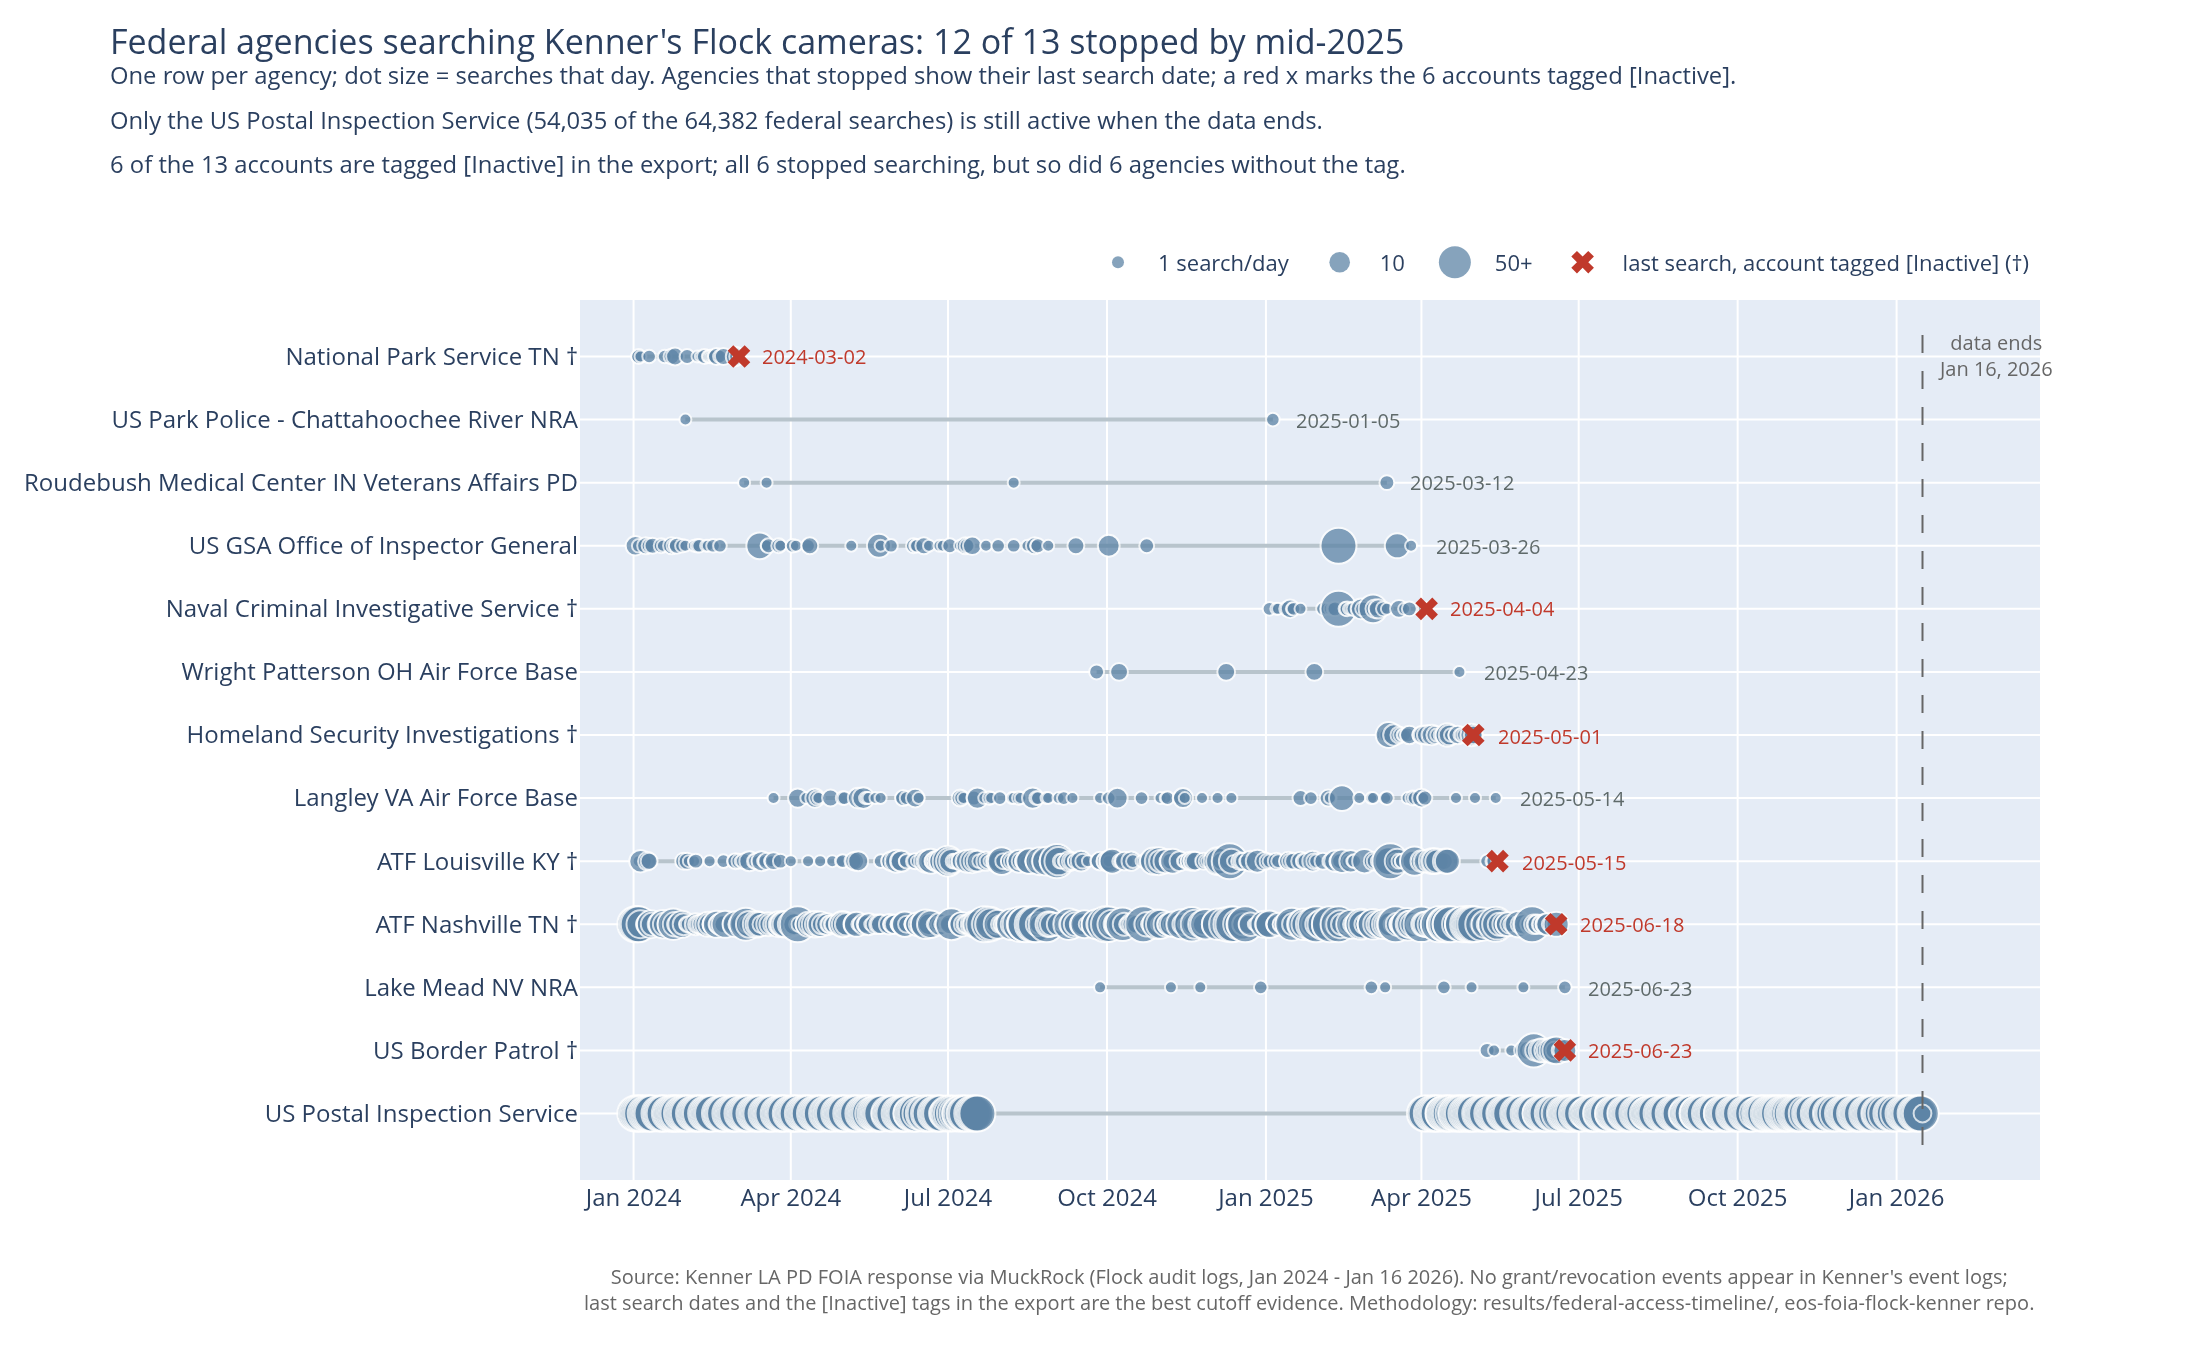
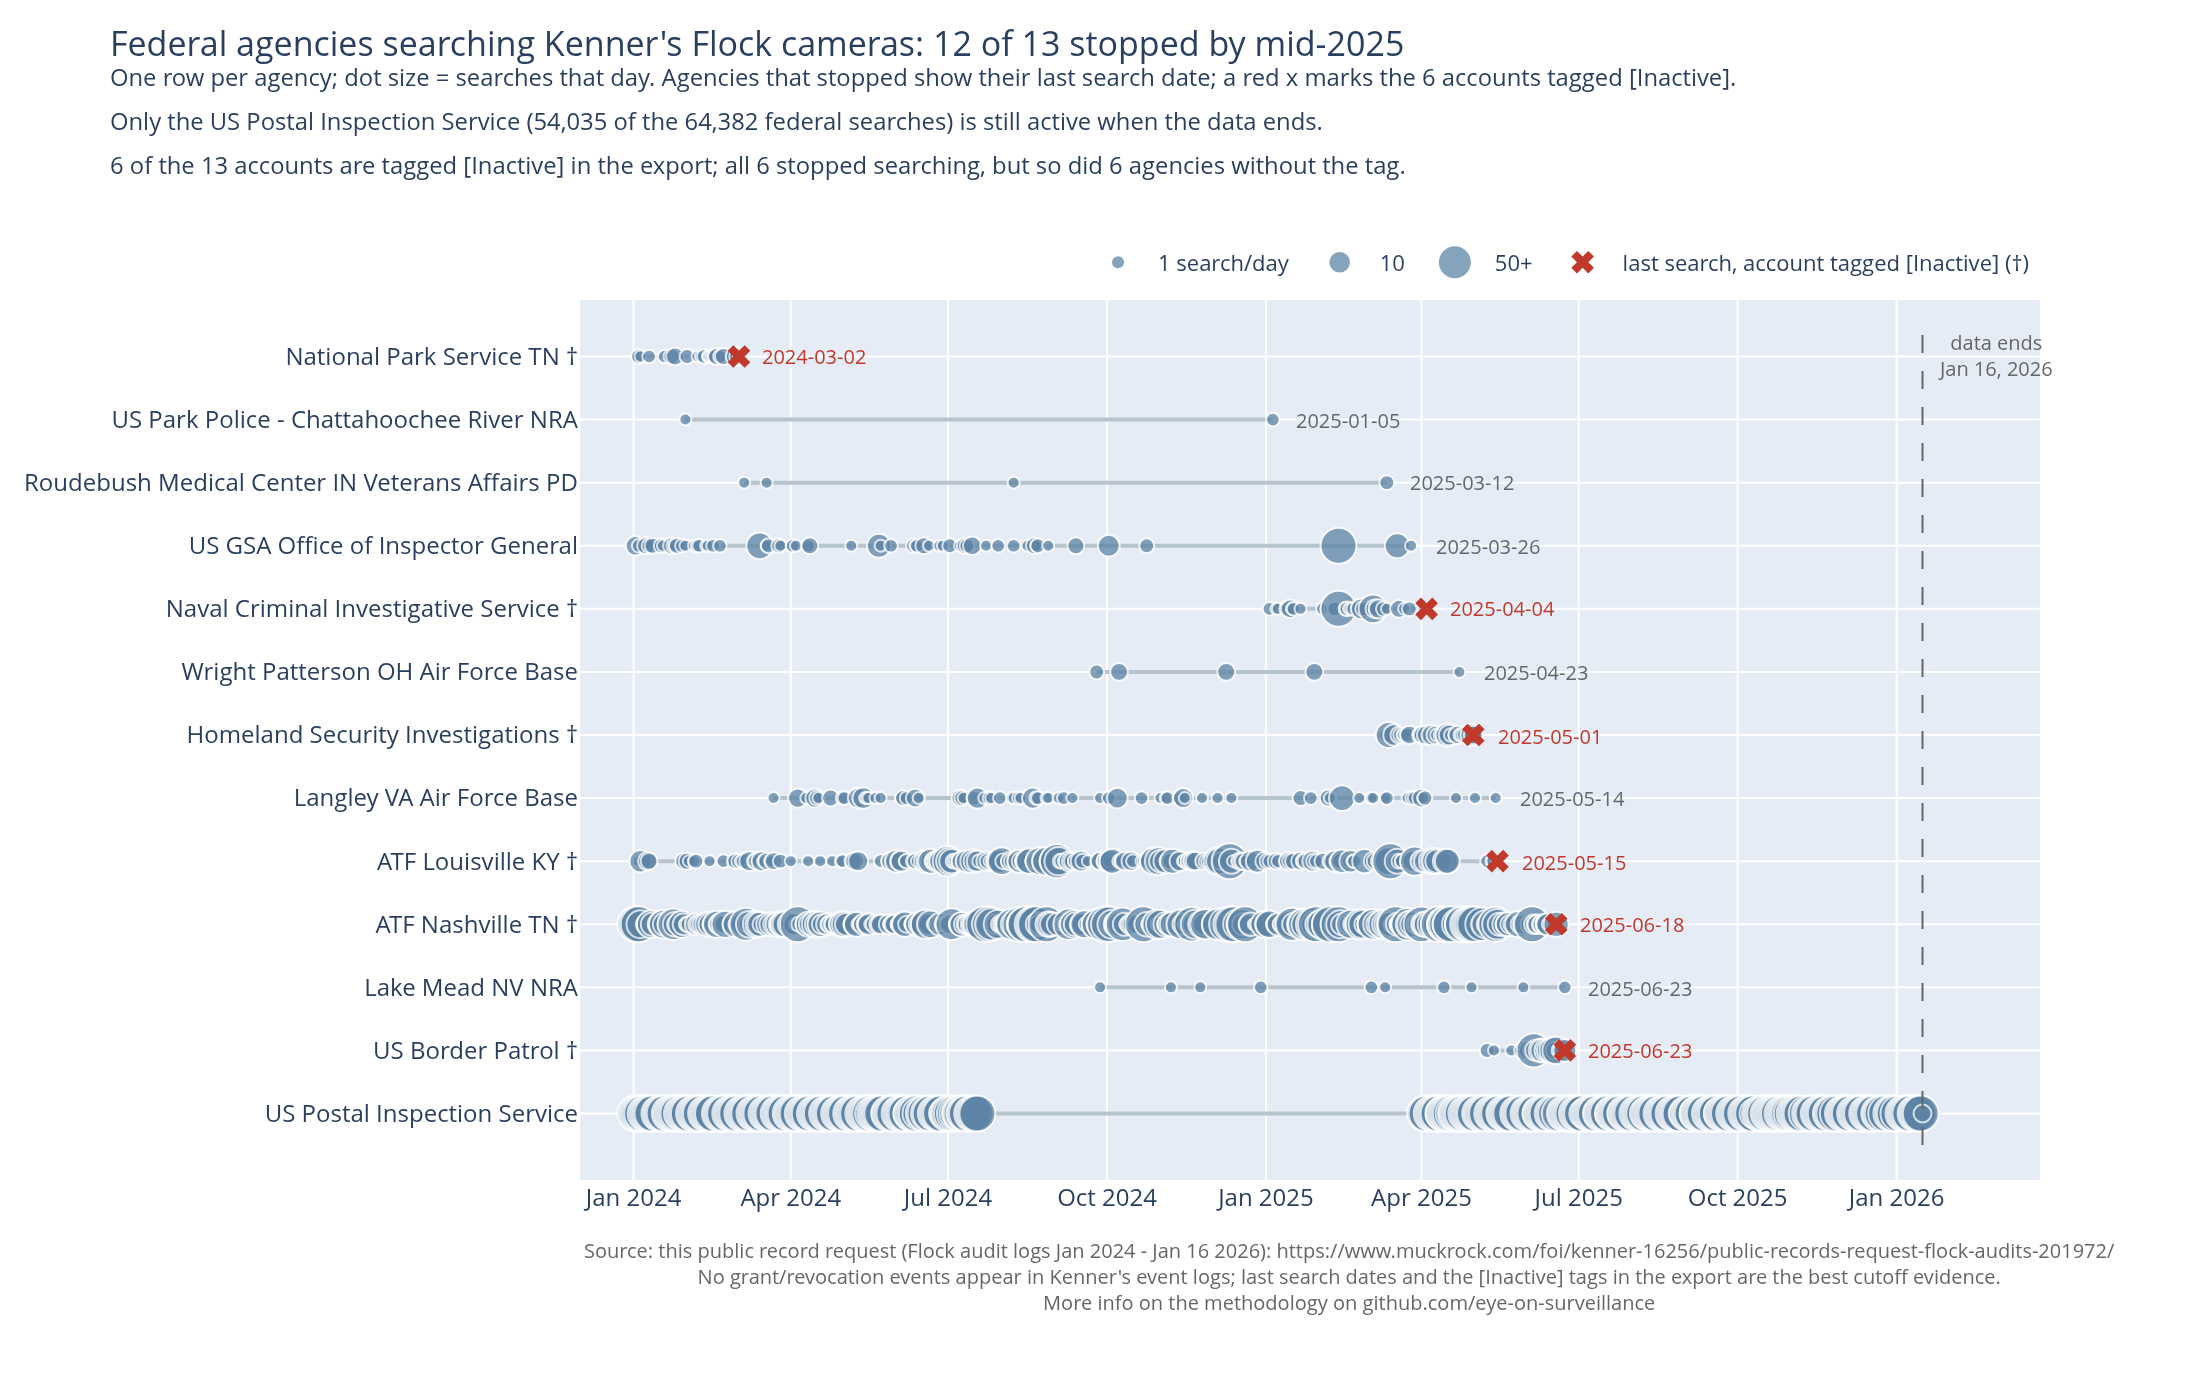
clean up readme, legend, source

diff --git a/results/agency-concentration/agency_concentration.py b/results/agency-concentration/agency_concentration.py
@@ -1,0 +1,211 @@
+# /// script
+# requires-python = ">=3.10"
+# dependencies = ["plotly", "kaleido"]
+# ///
+"""Graph: how concentrated are the outside searches of Kenner's cameras.
+
+Reads:  cache/flock.db  (build it with the setup-scripts/ pipeline first)
+Writes: next to this script, in results/agency-concentration/:
+        agency_concentration.html  (interactive, self-contained)
+        agency_concentration.svg
+        agency_concentration.png
+
+The database is the single source of data: the one SQL query below is
+the whole calculation, and the script prints the top-20 table and the
+band totals it draws, so the chart can be checked by re-running the
+query against cache/flock.db.
+
+Run from anywhere:  uv run results/agency-concentration/agency_concentration.py
+(uv installs plotly and kaleido from the header above; see README.)
+
+Definitions -- see DATA_DICTIONARY.md:
+- "Outside agencies" = network_audit rows where org_name is NOT
+  'Kenner LA PD' (same definition as results/internal-vs-network/).
+- Agencies are grouped by TRIM(org_name): a few names carry trailing
+  spaces in the export; trimming merges nothing (verified: no two
+  distinct names collide after TRIM), it only cleans the labels.
+- Treemap: rectangle area = share of all outside searches. Ranks 1-100
+  are drawn individually inside their band (top 10 / 11-50 / 51-100);
+  the 5,000+ agencies of the long tail are one aggregate block, because
+  thousands of unreadable slivers would only pretend to be detail.
+- This is a share-of-total chart, not a time series, so it uses the
+  full data range including the partial last month (Jan 1 2024 -
+  Jan 16 2026), stated in the subtitle.
+
+Idempotent: re-running overwrites the three output files.
+"""
+
+import sqlite3
+import sys
+from pathlib import Path
+
+import plotly.graph_objects as go
+
+OUTPUT_DIR = Path(__file__).resolve().parent      # results/agency-concentration
+PROJECT_ROOT = OUTPUT_DIR.parent.parent
+DB_FILE = PROJECT_ROOT / "cache" / "flock.db"
+OUTPUT_BASENAME = "agency_concentration"
+
+# Known figures the query result must reproduce exactly (verified when
+# this graph was built); any drift fails the run instead of drawing a
+# wrong chart.
+EXPECTED_TOTAL = 10_261_956
+EXPECTED_AGENCY_COUNT = 5_254
+EXPECTED_TOP = {
+    "Houston TX PD": 1_008_621,
+    "Dallas TX PD": 880_911,
+}
+
+# The three named bands; everything past rank 100 is the long tail.
+BANDS = ((1, 10, "Top 10 agencies"),
+         (11, 50, "Ranks 11-50"),
+         (51, 100, "Ranks 51-100"))
+BAND_COLORS = {"Top 10 agencies": "#2e5f8a",
+               "Ranks 11-50": "#4f7ca6",
+               "Ranks 51-100": "#7b9cba",
+               "long tail": "#adc2d4"}
+
+AGENCY_COUNTS = """
+SELECT TRIM(org_name) AS agency, COUNT(*) AS searches
+FROM network_audit
+WHERE org_name != 'Kenner LA PD'
+GROUP BY agency
+ORDER BY searches DESC
+"""
+
+
+def build_figure(ranked, total):
+    """Two-level treemap: band rectangles holding the named top-100
+    agencies, plus one aggregate block for the long tail."""
+    ids, labels, parents, values, colors = [], [], [], [], []
+
+    for lo, hi, band in BANDS:
+        band_rows = ranked[lo - 1:hi]
+        band_total = sum(c for _, c in band_rows)
+        ids.append(band)
+        # the band header renders on one line, so the share goes in the
+        # label itself (computed from the data, not hardcoded)
+        labels.append(f"{band} — {100 * band_total / total:.1f}%")
+        parents.append("")
+        values.append(band_total)
+        colors.append(BAND_COLORS[band])
+        for agency, count in band_rows:
+            ids.append(agency)
+            labels.append(agency)
+            parents.append(band)
+            values.append(count)
+            colors.append(BAND_COLORS[band])
+
+    tail = ranked[100:]
+    # a leaf node: the texttemplate below appends its share automatically
+    ids.append("long tail")
+    labels.append(f"{len(tail):,} other agencies (ranks 101+)")
+    parents.append("")
+    values.append(sum(c for _, c in tail))
+    colors.append(BAND_COLORS["long tail"])
+
+    fig = go.Figure(go.Treemap(
+        ids=ids, labels=labels, parents=parents, values=values,
+        branchvalues="total",
+        marker=dict(colors=colors, line=dict(width=1, color="white")),
+        texttemplate="%{label}<br>%{percentRoot:.1%}",
+        hovertemplate="%{label}<br>%{value:,} searches"
+                      " (%{percentRoot:.1%} of all outside searches)"
+                      "<extra></extra>",
+        pathbar=dict(visible=False),
+        tiling=dict(pad=2),
+    ))
+
+    fig.update_layout(
+        title=dict(
+            text="Searches of Kenner's Flock cameras: two Texas agencies"
+                 " vs. everyone else"
+                 "<br><sup>All 10,261,956 searches by 5,254 outside agencies"
+                 " that included Kenner's cameras, Jan 1 2024 - Jan 16 2026."
+                 " Rectangle area = share of searches.</sup>"
+                 "<br><sup>Ranks 1-100 are drawn individually (hover for"
+                 " exact numbers in the interactive version); the long tail"
+                 " is one block.</sup>",
+        ),
+        width=1100, height=700,
+        margin=dict(t=110, b=80),
+    )
+    fig.add_annotation(
+        text="Source: this public record request (Flock audit logs"
+             " Jan 2024 - Jan 16 2026, Kenner's own searches excluded):"
+             ' <a href="https://www.muckrock.com/foi/kenner-16256/'
+             'public-records-request-flock-audits-201972/">'
+             "https://www.muckrock.com/foi/kenner-16256/"
+             "public-records-request-flock-audits-201972/</a>"
+             "<br>More info on the methodology on"
+             ' <a href="https://github.com/eye-on-surveillance/'
+             'foia-flock-kenner">github.com/eye-on-surveillance</a>',
+        xref="paper", yref="paper", x=0, y=-0.06,
+        showarrow=False, font=dict(size=10, color="#666"),
+    )
+    return fig
+
+
+def main():
+    if not DB_FILE.exists():
+        print(f"ERROR: {DB_FILE} not found."
+              "\nRun the setup-scripts/ pipeline (00, 01_*, 02) first.",
+              file=sys.stderr)
+        sys.exit(1)
+
+    connection = sqlite3.connect(DB_FILE)
+    ranked = connection.execute(AGENCY_COUNTS).fetchall()
+    connection.close()
+
+    # Verification: the known grand total, agency count, and top-2 counts
+    # must match exactly -- otherwise the chart silently drifted from the
+    # database.
+    total = sum(c for _, c in ranked)
+    print("Verification: query result vs known figures")
+    checks = [
+        ("total searches", total, EXPECTED_TOTAL),
+        ("agencies", len(ranked), EXPECTED_AGENCY_COUNT),
+    ] + [(name, dict(ranked)[name], count)
+         for name, count in EXPECTED_TOP.items()]
+    all_ok = True
+    for label, got, expected in checks:
+        ok = got == expected
+        all_ok &= ok
+        print(f"  {label}: {got:,} expected {expected:,}"
+              f" {'OK' if ok else 'MISMATCH'}")
+    if not all_ok:
+        print("\nERROR: figures do not match; not writing outputs.",
+              file=sys.stderr)
+        sys.exit(1)
+
+    print("\nTop 20 agencies:")
+    cumulative = 0
+    for rank, (agency, count) in enumerate(ranked[:20], start=1):
+        cumulative += count
+        print(f"  {rank:>3} {count:>9,} {100 * count / total:5.2f}%"
+              f"  cum {100 * cumulative / total:5.2f}%  {agency}")
+
+    print("\nBands drawn in the treemap:")
+    for lo, hi, band in BANDS:
+        band_total = sum(c for _, c in ranked[lo - 1:hi])
+        print(f"  {band}: {band_total:,} searches"
+              f" ({100 * band_total / total:.1f}%)")
+    tail_total = sum(c for _, c in ranked[100:])
+    print(f"  {len(ranked) - 100:,} other agencies (ranks 101+):"
+          f" {tail_total:,} searches ({100 * tail_total / total:.1f}%)")
+
+    fig = build_figure(ranked, total)
+    html_path = OUTPUT_DIR / f"{OUTPUT_BASENAME}.html"
+    svg_path = OUTPUT_DIR / f"{OUTPUT_BASENAME}.svg"
+    png_path = OUTPUT_DIR / f"{OUTPUT_BASENAME}.png"
+    fig.write_html(html_path)                # self-contained interactive page
+    fig.write_image(svg_path)                # static, via kaleido
+    fig.write_image(png_path, scale=2)       # static, 2x resolution
+
+    print()
+    for path in (html_path, svg_path, png_path):
+        print(f"Wrote {path}")
+
+
+if __name__ == "__main__":
+    main()

diff --git a/results/federal-access-timeline/federal_access_timeline.py b/results/federal-access-timeline/federal_access_timeline.py
@@ -219,16 +219,22 @@ def build_figure(per_org):
         # bottom, first agency to stop at the top.
         yaxis=dict(categoryorder="array",
                    categoryarray=[labels[org] for org in reversed(order)]),
-        width=1100, height=680,
-        margin=dict(t=150, b=90),
+        width=1100, height=700,
+        margin=dict(t=150, b=110),
     )
     fig.add_annotation(
-        text="Source: Kenner LA PD FOIA response via MuckRock (Flock audit"
-             " logs, Jan 2024 - Jan 16 2026). No grant/revocation events"
-             " appear in Kenner's event logs;<br>last search dates and the"
-             " [Inactive] tags in the export are the best cutoff evidence."
-             " Methodology: results/federal-access-timeline/,"
-             " eos-foia-flock-kenner repo.",
+        text="Source: this public record request (Flock audit logs"
+             " Jan 2024 - Jan 16 2026):"
+             ' <a href="https://www.muckrock.com/foi/kenner-16256/'
+             'public-records-request-flock-audits-201972/">'
+             "https://www.muckrock.com/foi/kenner-16256/"
+             "public-records-request-flock-audits-201972/</a>"
+             "<br>No grant/revocation events appear in Kenner's event logs;"
+             " last search dates and the [Inactive] tags in the export are"
+             " the best cutoff evidence."
+             "<br>More info on the methodology on"
+             ' <a href="https://github.com/eye-on-surveillance/'
+             'foia-flock-kenner">github.com/eye-on-surveillance</a>',
         xref="paper", yref="paper", x=0, y=-0.16,
         showarrow=False, font=dict(size=10, color="#666"),
     )

diff --git a/results/internal-vs-network/internal_vs_network.py b/results/internal-vs-network/internal_vs_network.py
@@ -127,14 +127,19 @@ def build_figure(months, internal, external):
             rangemode="tozero", separatethousands=True,
         ),
         legend=dict(orientation="h", yanchor="bottom", y=1.0, x=0),
-        width=1000, height=600,
-        margin=dict(b=90),
+        width=1000, height=620,
+        margin=dict(b=130),
     )
     fig.add_annotation(
-        text="Source: Kenner LA PD FOIA response via MuckRock (Flock audit"
-             " logs). Full months only: Jan 2024 - Dec 2025."
-             " Methodology: results/internal-vs-network/ in the"
-             " eos-foia-flock-kenner repo.",
+        text="Source: this public record request (Flock audit logs, full"
+             " months only Jan 2024 - Dec 2025):"
+             '<br><a href="https://www.muckrock.com/foi/kenner-16256/'
+             'public-records-request-flock-audits-201972/">'
+             "https://www.muckrock.com/foi/kenner-16256/"
+             "public-records-request-flock-audits-201972/</a>"
+             "<br>More info on the methodology on"
+             ' <a href="https://github.com/eye-on-surveillance/'
+             'foia-flock-kenner">github.com/eye-on-surveillance</a>',
         xref="paper", yref="paper", x=0, y=-0.18,
         showarrow=False, font=dict(size=10, color="#666"),
     )

diff --git a/README.MD b/README.MD
@@ -13,13 +13,10 @@ You download the former and rebuild the latter.
 | `cache/` | generated artifacts: aggregated CSVs + `flock.db` (rebuilt, not in git) |
 | `results/` | human-friendly outputs (graphs, tables) |
 
-Requirements: Python 3.8+ with SQLite 3.37+ (`python3 -c "import sqlite3; print(sqlite3.sqlite_version)"`).
-No external libraries for the data pipeline (`setup-scripts/`). The graph
-scripts (in `results/`, one folder per graph) use plotly and run via
-[uv](https://docs.astral.sh/uv/), which handles their dependencies
-automatically.
+Requirements: Python 3.8+ with SQLite 3.37+ 
+ The graph scripts use plotly and run via [uv](https://docs.astral.sh/uv/), which handles their dependencies.
 
-## Obtain the FOIA results
+## Obtain the public records request results
 
 Download the zip and verify it:
 
@@ -99,7 +96,7 @@ see `DATA_DICTIONARY.md` for detail.
 
 ## Aggregate the results to work with them
 
-One CSV per month is not practical, and a small DB is handy. Step 01
+One CSV per month is not practical. Step 01
 aggregates each source into a single clean CSV in `cache/`, one line per
 record. Each script prints its own audit trail and exits with an error if
 any count is off; compare yours against the expected outputs below.

diff --git a/results/README.md b/results/README.md
@@ -23,3 +23,13 @@ Numbers, interactive version, and methodology: [`federal-access-timeline/`](fede
 12 of the 13 had stopped by mid-2025, most in a wave between March and June 2025. 6 of the 13 accounts are tagged `[Inactive]` in Flock's own export; all 6 stopped searching, but so did 6 agencies without the tag.
 The exception is the US Postal Inspection Service: 54,035 searches — more than everyone else combined — still running when the data ends, after an unexplained 8-month pause from July 2024 to April 2025.
 Kenner's event logs contain no grant or revocation entries for any federal agency, so each agency's last search date is the best available evidence of when its access was cut.
+
+## Who searches Kenner's cameras: concentration
+
+[![Treemap: share of outside searches by agency](agency-concentration/agency_concentration.png)](agency-concentration/agency_concentration.png)
+
+Numbers, interactive version, and methodology: [`agency-concentration/`](agency-concentration/)
+
+5,254 outside agencies searched Kenner's cameras. Two of them, Houston TX PD (9.8%) and Dallas TX PD (8.6%), account for more searches than the next 48 agencies combined.
+The concentration is double-edged: the top 100 agencies represent 51.8% of the 10.26 million outside searches, but the long tail of 5,154 smaller agencies still adds up to 48.2%.
+The median agency ran just 221 searches that touched Kenner's cameras over the two years.